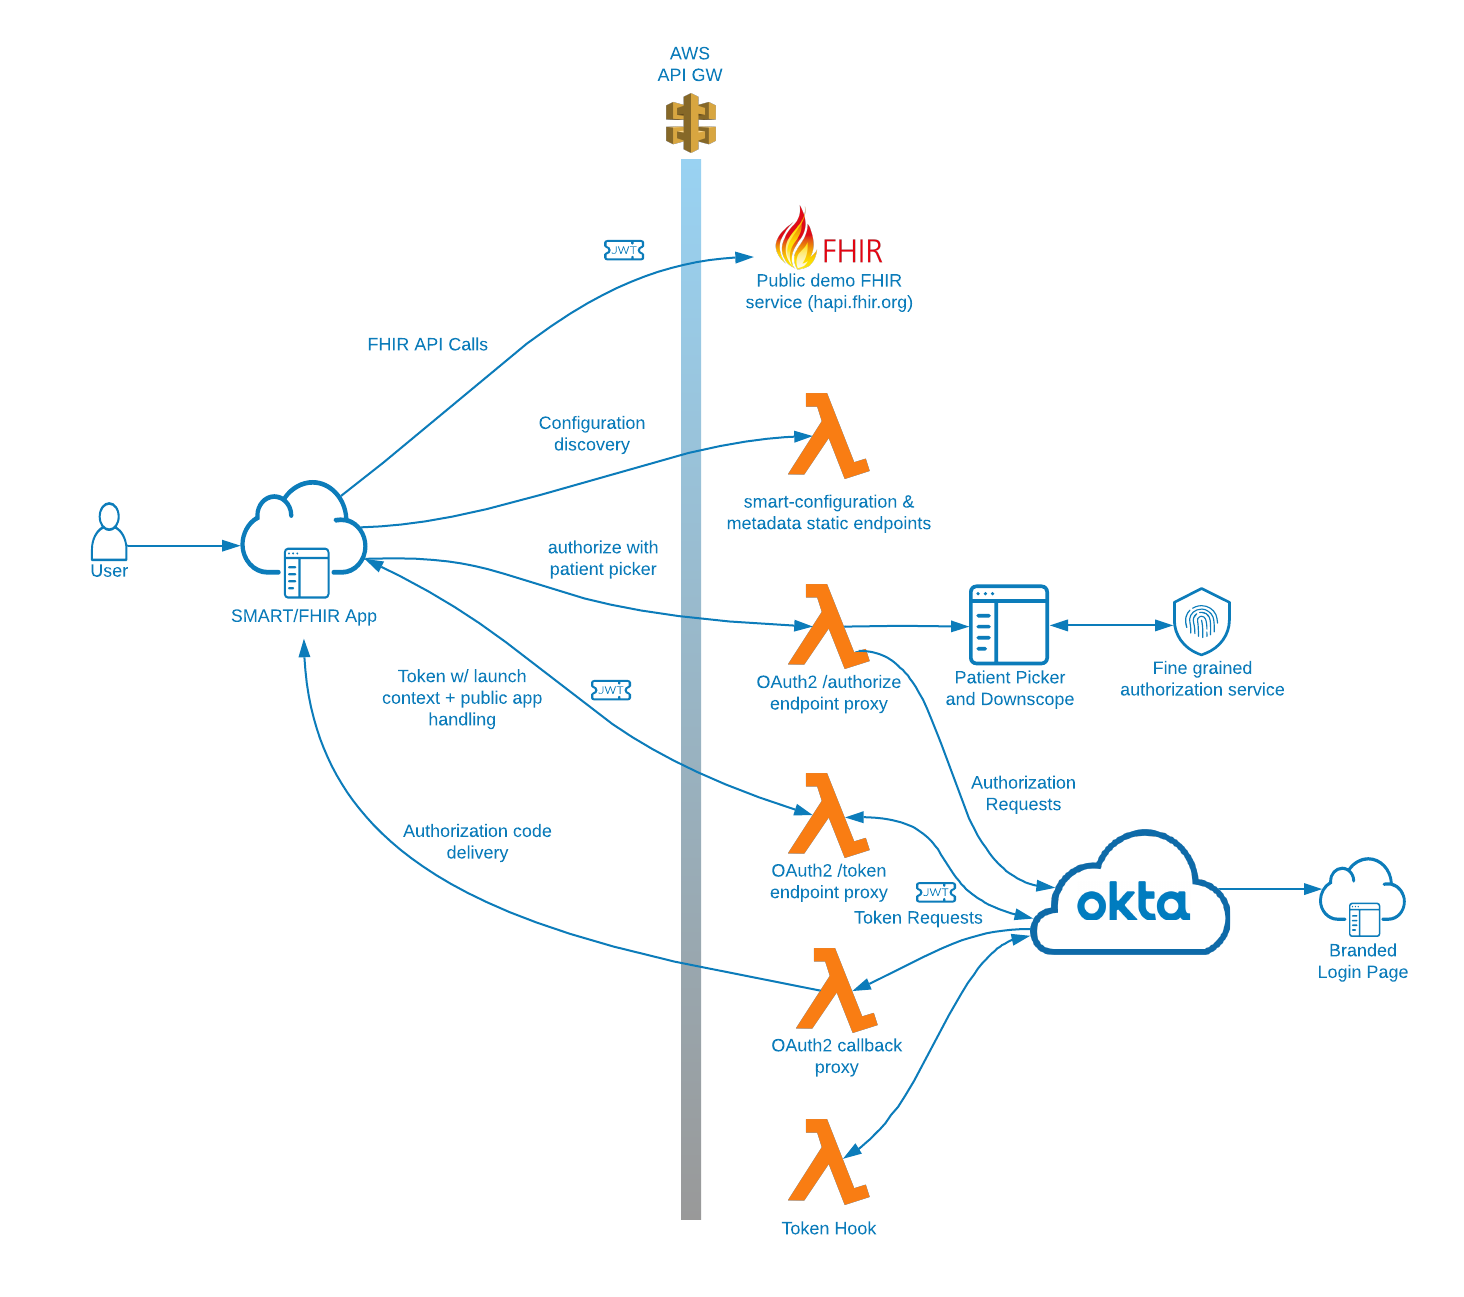
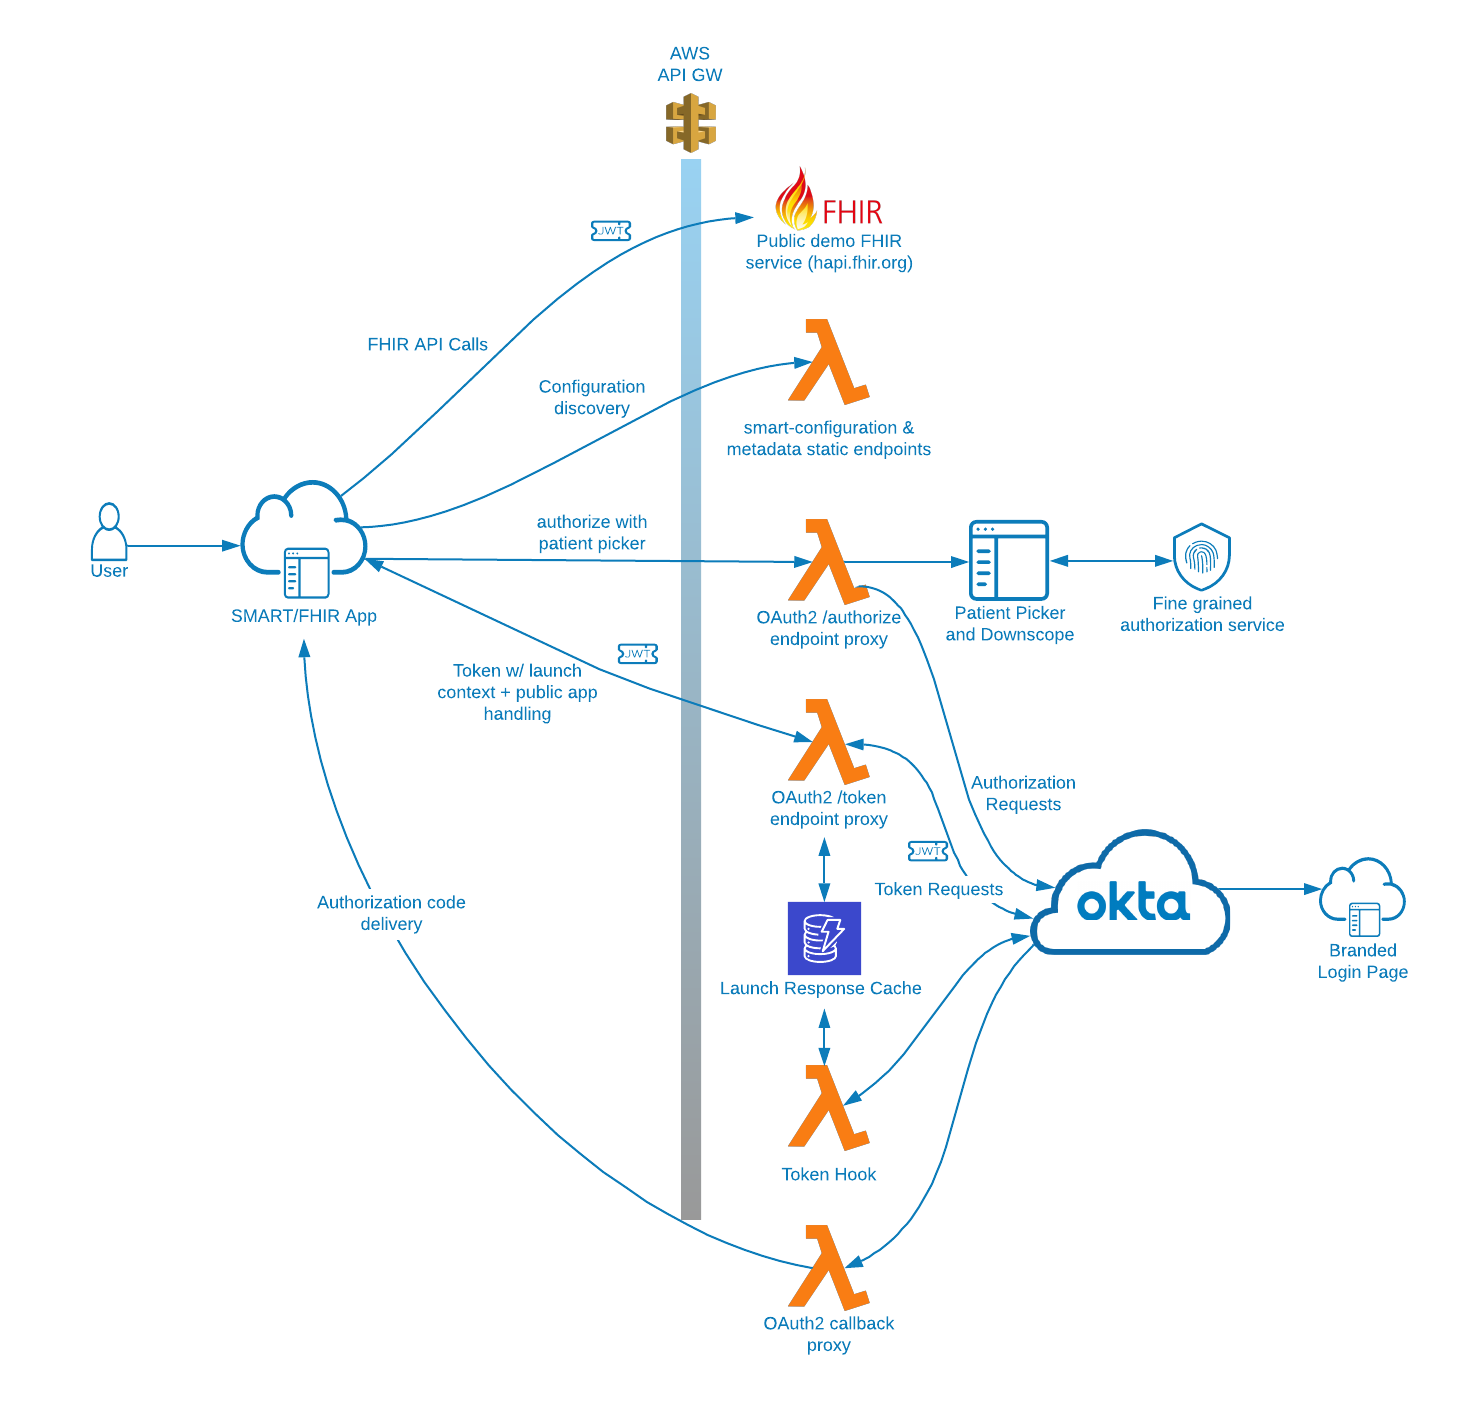
Updated documentation with the refresh process and token cache.

diff --git a/README.md b/README.md
@@ -1,7 +1,7 @@
 # Okta SMART on FHIR
 ## Okta API Access Management for SMART Authorization
 
-[Setup a Reference SMART/FHIR Deployment Here!](https://github.com/dancinnamon-okta/okta-smartfhir-docs/blob/main/SETUP.md)
+[Setup a Reference SMART/FHIR Deployment Here!](https://github.com/oktadeveloper/okta-smartfhir-docs/blob/main/SETUP.md)
 
 ## Introduction
 With the introduction of the [CMS Interoperability and Patient Access final rule](https://www.cms.gov/Regulations-and-Guidance/Guidance/Interoperability/index) in early 2020, Medicare/Medicaid/CHIP serving health insurance providers must provide a standardized API for patients to access their healthcare related data.
@@ -18,7 +18,7 @@ The goal is to help payers in their journey to deliver a SMART/FHIR deployment i
 The diagram below shows a high level overview of what a SMART/FHIR deployment looks like.
 The reference implementation described in this document has as strong focus on the Authorization Service component, but all components with a green checkmark have at least a sample implementation.
 
-![Components Diagram](https://github.com/dancinnamon-okta/okta-smartfhir-docs/blob/main/images/SMART_FHIR_Components.png "Components Diagram")
+![Components Diagram](https://github.com/oktadeveloper/okta-smartfhir-docs/blob/main/images/SMART_FHIR_Components.png "Components Diagram")
 
 ## Reference Implementation- Standards Used
 
@@ -43,7 +43,7 @@ The SMART specification is an extension of the OAuth2 specification, as defined 
 There are several requirements in the SMART specification that require additional components over/above what Okta provides as a standard OIDC/OAuth2 authorization service. All of these components are provided in the reference implementation.
 * Launch parameter handling - when a SMART client requests access, it may ask for application session context, such as an active patient id to be returned from the authorization service.  The authorization service is responsible for determining the active patient record, even including a user-patient selection widget on the OAuth2 consent screen in the event that the user may view multiple patients. This behavior is not part of the OAuth2 specification, and requires special handling with Okta (or any other standard OAuth2 service).
 Additionally, the SMART specification expects this session context to be returned in the /token response, ***next to*** any id/access tokens.  While this expectation is in line with RFC6749, many standard authorization servers (including Okta) do not support this practice, and instead rely on the Open ID Connect protocol to communicate application session level information.
-![Launch Example](https://github.com/dancinnamon-okta/okta-smartfhir-docs/blob/main/images/launch_example.png "Launch Example")
+![Launch Example](https://github.com/oktadeveloper/okta-smartfhir-docs/blob/main/images/launch_example.png "Launch Example")
 
 * Well known endpoints - the SMART specification has 2 additional well known metadata endpoints that are not part of the OAuth2 specification.  These endpoints provide typical authorization server metadata, and a capabilities statement.  Sample metadata endpoints are provided as part of this reference implementation.
 
@@ -79,7 +79,7 @@ These SMART enabled clients were used while developing this solution to ensure t
 * [Demo Patient Portal](https://github.com/udplabs/zartan) - Confidential app
 * [Cerner SMART App Validator](https://smart.sandboxcerner.com/smart-app-validator-2.0/launch.html) - Public app
 
-![Reference Implementation Architecture](https://github.com/dancinnamon-okta/okta-smartfhir-docs/blob/main/images/SMART_FHIR_Reference_Architecture.png "Reference Implementation Architecture")
+![Reference Implementation Architecture](https://github.com/oktadeveloper/okta-smartfhir-docs/blob/main/images/SMART_FHIR_Reference_Architecture.png "Reference Implementation Architecture")
 
 ### Component Detail
 
@@ -112,8 +112,11 @@ The token proxy is what is called by the SMART client to exchange it's authoriza
 
 * To perform private_key_jwt authentication with Okta for public applications.  A single, shared secret key is shared by all public SMART clients.  For confidential clients, client_id/client_secret from the SMART client is forwarded on to Okta.
 
+**Launch Response Cache**
+When authorizing FHIR API access using the SMART launch framework, any launch response data selected by the user at authorization time (such as a patient id in response to launch/patient scope) must also be taken into account if/when a token is refreshed using a refresh token. The launch response cache is a persistent store that is to be used to remember and replay the user's selections during the original authorization flow, that may be remembered during the refresh process. In the reference implementation a nosql database has been used that employs TTL (time to live) features so records automatically expire and are removed at roughly the same time a refresh token will expire.
+
 ## Reference Implementation Flow
-![Reference Implementation Flow](https://github.com/dancinnamon-okta/okta-smartfhir-docs/blob/main/images/SMART_FHIR_Reference_flow.png "Reference Implementation Flow")
+![Reference Implementation Flow](https://github.com/oktadeveloper/okta-smartfhir-docs/blob/main/images/SMART_FHIR_Reference_flow.png "Reference Implementation Flow")
 
 1.  User accesses a SMART-enabled app.
 
@@ -137,11 +140,36 @@ The token proxy is what is called by the SMART client to exchange it's authoriza
 
 11.  App calls the /token proxy to obtain an access token.
 
-12.  /token proxy obtains the token from Okta, uses a private key to perform client authentication (public apps), or by forwarding client id/secret (confidential apps)
+12.  /token proxy obtains the token from Okta, using a private key to perform client authentication (public apps), or by forwarding client id/secret (confidential apps).
 
-13.  /token proxy also grabs the patient out of the access token, and decorates it's response JSON with the patient id if requested.
+13.  If Okta returns a refresh token to the /token proxy, the id of the refresh token, as well as any selected patient id are then stored in the launch response cache to be replayed again at refresh time.
 
-14.  App accesses the FHIR API
+14.  /token proxy grabs the selected patient id out of the access token, and decorates it's response JSON with the patient id if requested.
+
+15.  App accesses the FHIR API.
+
+## Refresh Flow
+![Refresh Flow](https://github.com/oktadeveloper/okta-smartfhir-docs/blob/main/images/SMART_FHIR_Reference_Refresh_Flow.png "Refresh Flow")
+
+1.  User accesses a SMART-enabled app. The application presents the user with a secure way of accessing the refresh token from device memory (biometric or similar).
+
+2.  The app invokes the /token proxy endpoint passing along the refresh token as well as client authentication (client_id/client_secret).
+
+3. The /token proxy passes the request along to Okta to request a new id/access token.
+
+4. Okta invokes the token hook.
+
+5. The token hook uses the refresh token id to retrieve any runtime cached information, such as patient id or other launch response information. This information is provided to Okta to include in the newly refreshed access token.
+
+6. Okta mints a new access token, including the retrieved cached information if any.
+
+7. The /token proxy will again re-insert the refreshed data back into the launch response cache. This achieves 2 things:
+* It will update the TTL on the record to indicate activity on the record so it will not expire.
+* Depending upon Okta configuration, Okta may issue a brand new refresh token upon every refresh request (versus reusing the original one). If this occurs, a new record will be required to be inserted into the cache. This logic is the same logic from step 13 in the authorization flow above.
+
+8. The /token proxy will grab the selected patient id out of the access token, and the response JSON will again be decorated with the patient id if requested. This is the same logic from step 14 in the authorization flow above.
+
+9. The app accesses the FHIR API.
 
 ## Set it up yourself!
-* [Reference Implementation Setup](https://github.com/dancinnamon-okta/okta-smartfhir-docs/blob/main/SETUP.md)
+* [Reference Implementation Setup](https://github.com/oktadeveloper/okta-smartfhir-docs/blob/main/SETUP.md)
